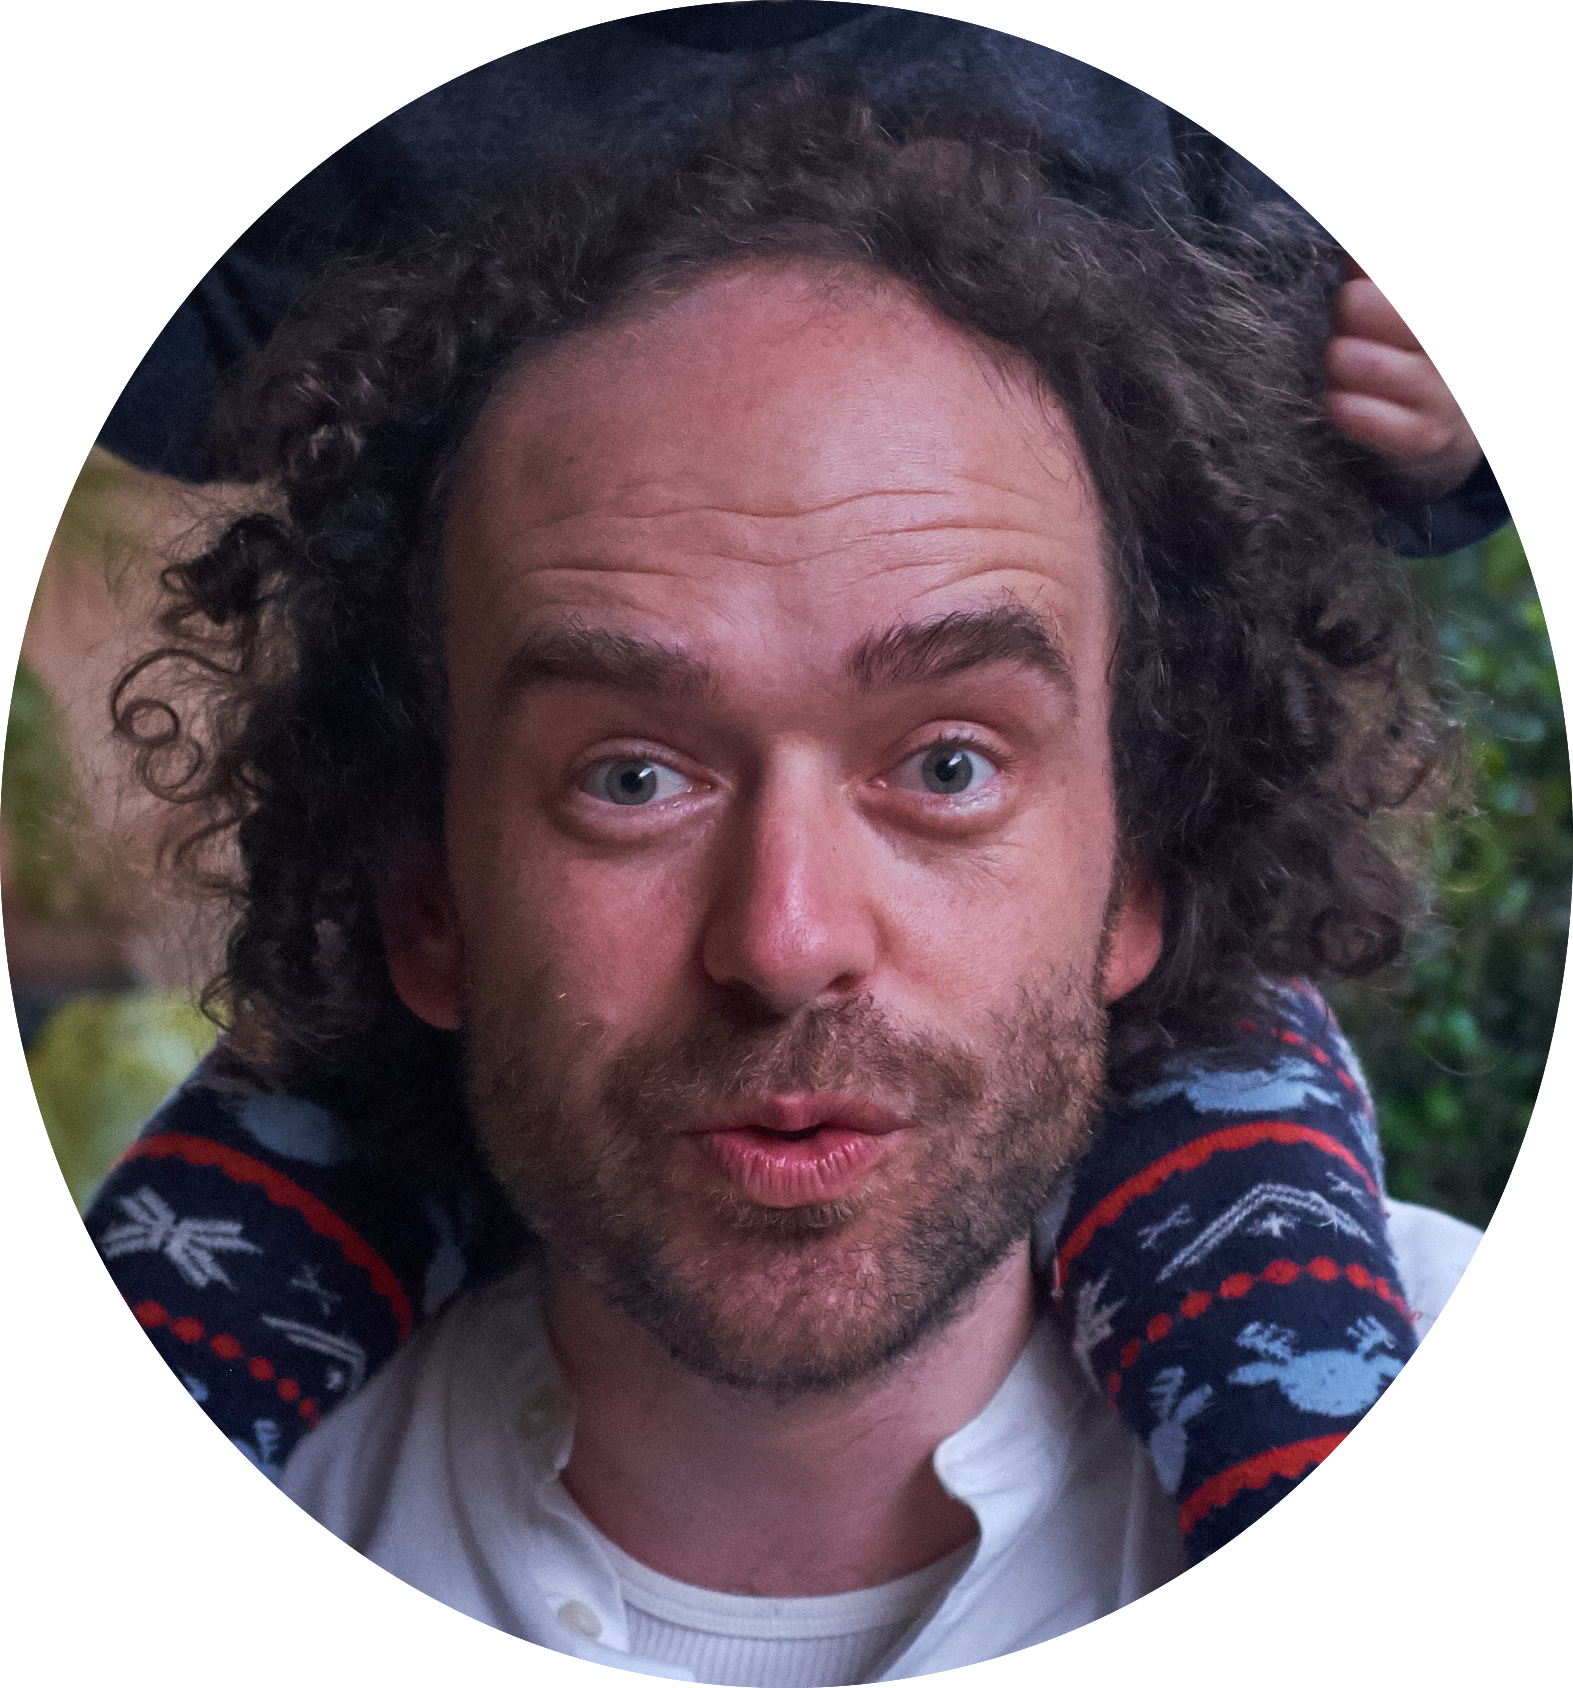
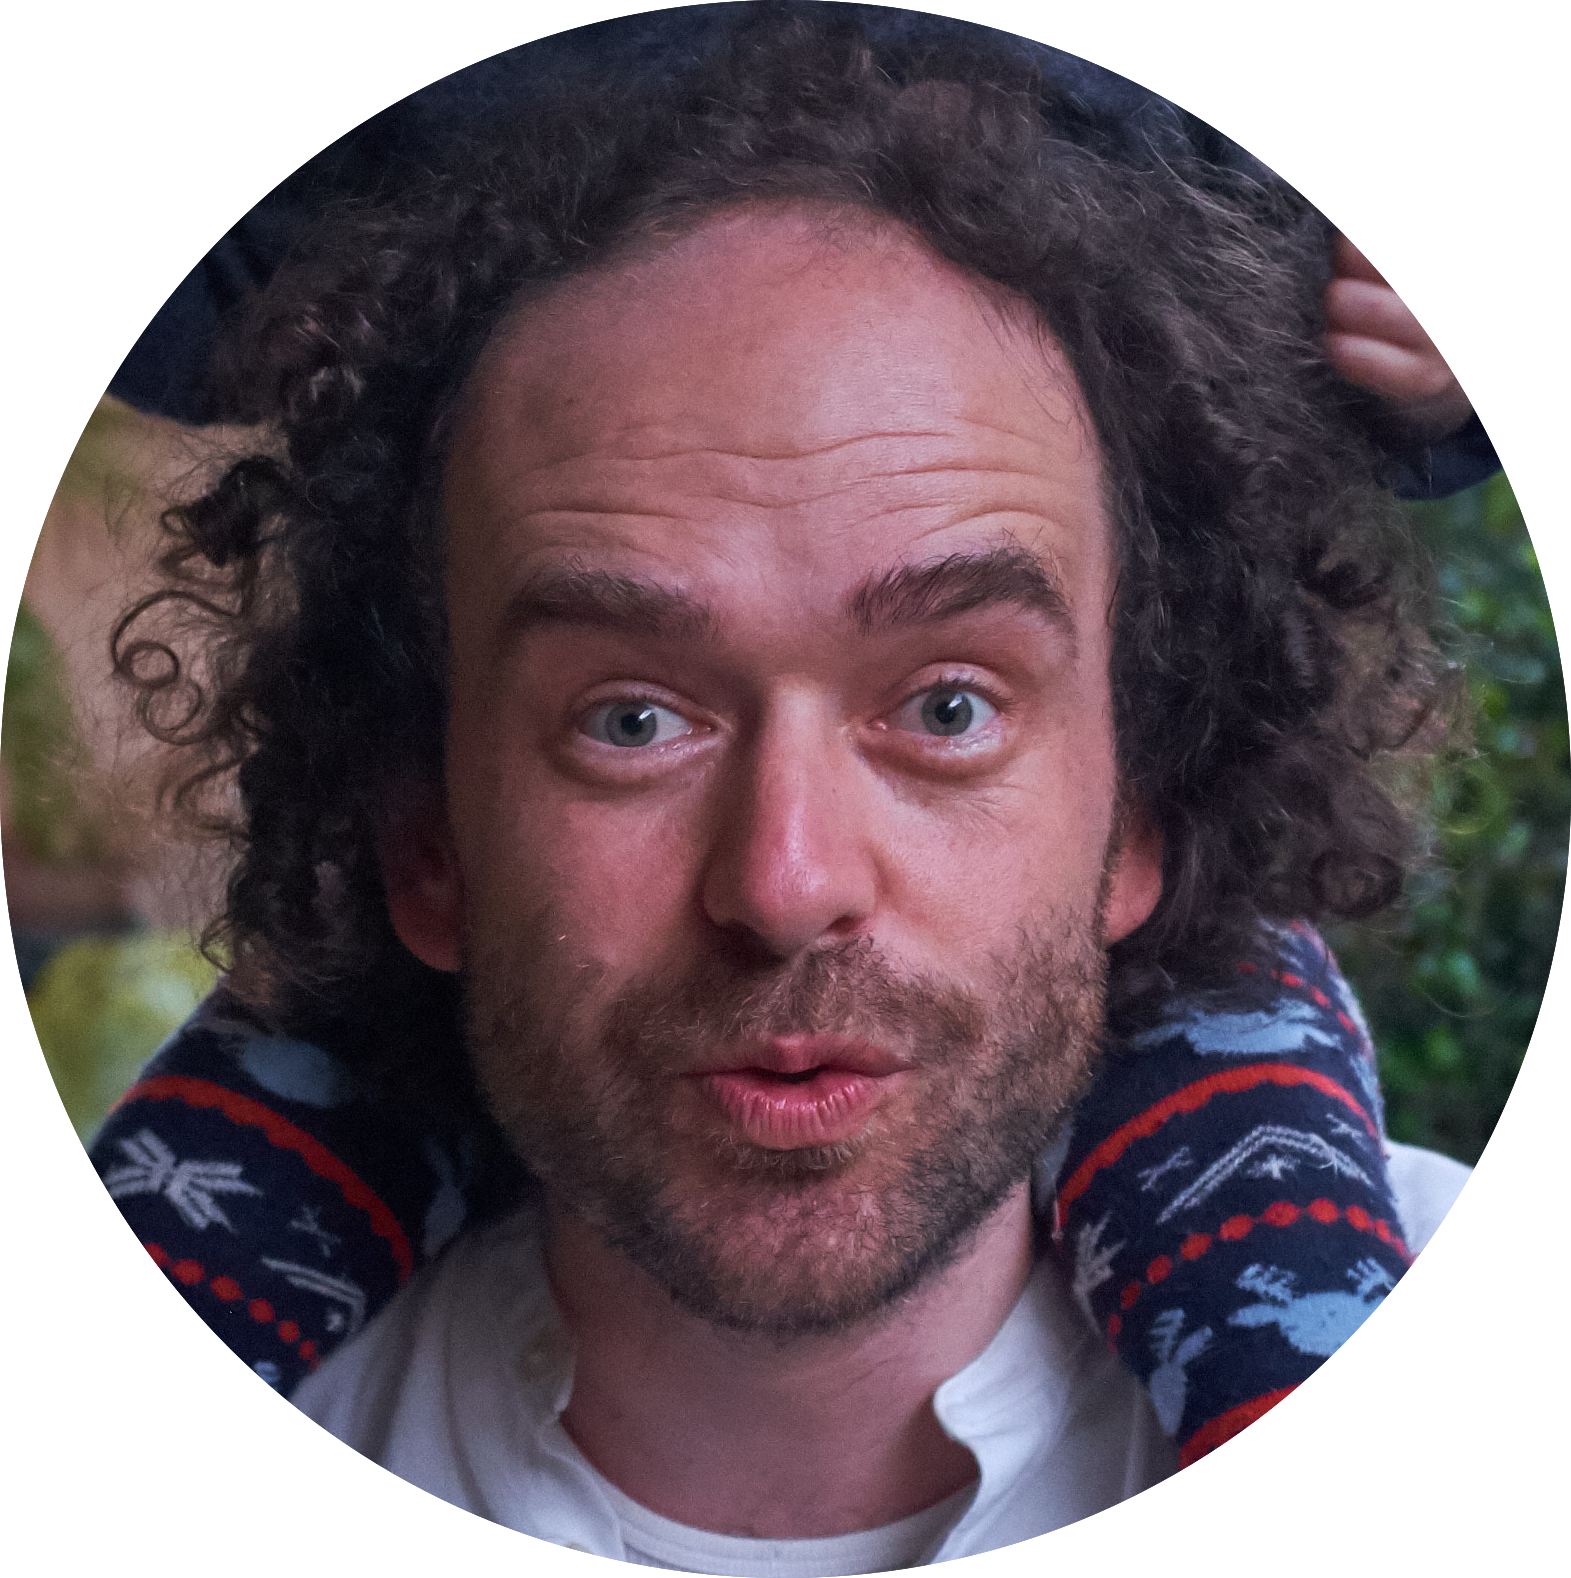
added portraits to summary slide

diff --git a/2022-eröffnung/index.html b/2022-eröffnung/index.html
@@ -1281,6 +1281,64 @@ Universitätsbibliothek, Grimm-Zentrum            </p>
         (Inst.f. Bibliotheks- und Informationswissenschaften) der
         Humboldt-Universität zu Berlin einen <strong>prototypischen
         <em>Scholarly Makerspace</em></strong> auf (2022–25).</p>
+        <div class="columns-3">
+        <div class="column">
+        <figure>
+        <img data-src="../assets/images/photos/portrait_se-circle.png"
+        alt="Sophie Eckenstaler" />
+        <figcaption aria-hidden="true">Sophie Eckenstaler</figcaption>
+        </figure>
+        </div>
+        <div class="column">
+        <figure>
+        <img data-src="../assets/images/photos/portrait_tg-circle.png"
+        alt="Till Grallert, PhD" />
+        <figcaption aria-hidden="true">Till Grallert, PhD</figcaption>
+        </figure>
+        </div>
+        <div class="column">
+        <figure>
+        <img data-src="../assets/images/photos/portrait_st-circle.png"
+        alt="Samantha Tirtohusodo" />
+        <figcaption aria-hidden="true">Samantha Tirtohusodo</figcaption>
+        </figure>
+        </div>
+        </div>
+        <aside class="notes">
+        <ul>
+        <li>Sophie
+        <ul>
+        <li>Museologie, Medieninformatik sowie Digital History (MA)</li>
+        <li>Doktorandin und Wimi am Lehrstuhl Digital History</li>
+        <li>Schwerpunkt auf Research Software Engineering</li>
+        </ul></li>
+        <li>Till
+        <ul>
+        <li>Geschichte (PhD, MA)</li>
+        <li>Islamwissenschaft, Judaistik und VWL</li>
+        <li>mehr als 10 Jahre Erfahrungen in den DH
+        <ul>
+        <li>Global DH, critical DH: unter den Bedingungen des Globalen
+        Südens</li>
+        <li>multilingual DH: vor allem Arabisch und Osmanisch</li>
+        <li>Digitale Editorik, NER</li>
+        <li>Netzwerkanalyse, Stilometrie</li>
+        <li>Data viz</li>
+        </ul></li>
+        </ul></li>
+        <li>Sam
+        <ul>
+        <li>Bibliotheks- und Informationsmanagement</li>
+        <li>Information Science</li>
+        <li>Außerdem am FID Buch-, Bibliothek-, und
+        Informationswissenschaft angestellt</li>
+        <li>Schwerpunkt
+        <ul>
+        <li>User Experience</li>
+        </ul></li>
+        </ul></li>
+        </ul>
+        </aside>
         </section>
         <section id="heutige-vorstellung" class="slide level2">
         <h2>Heutige Vorstellung</h2>

diff --git a/2022-eröffnung/makerspace_what-is-it.md b/2022-eröffnung/makerspace_what-is-it.md
@@ -26,6 +26,48 @@ tags:
 
 Wir bauen im Rahmen des DFG-Projekts "Future e-Research Support in the Humanities" zur Förderung von *digitaler* und *computationaler* **Werkzeugkompetenz** (*tool literacy*) in den Geistes- und Kulturwissenschaften an Universitätsbibliothek unter Beteiligung der Lehrstühle für *Digital History* (Inst. f. Geschichte) und *Information Processing and Analytics* (Inst.f. Bibliotheks- und Informationswissenschaften) der Humboldt-Universität zu Berlin einen **prototypischen *Scholarly Makerspace*** auf (2022--25).
 
+::: columns-3
+:::: column
+
+![Sophie Eckenstaler](../assets/images/photos/portrait_se-circle.png)
+
+::::
+:::: column
+
+![Till Grallert, PhD](../assets/images/photos/portrait_tg-circle.png)
+
+::::
+:::: column
+
+![Samantha Tirtohusodo](../assets/images/photos/portrait_st-circle.png)
+
+::::
+:::
+
+::: notes
+
+- Sophie
+    + Museologie, Medieninformatik sowie Digital History (MA)
+    + Doktorandin und Wimi am Lehrstuhl Digital History
+    + Schwerpunkt auf Research Software Engineering
+- Till
+    + Geschichte (PhD, MA)
+    + Islamwissenschaft, Judaistik und VWL
+    + mehr als 10 Jahre Erfahrungen in den DH
+        * Global DH, critical DH: unter den Bedingungen des Globalen Südens
+        * multilingual DH: vor allem Arabisch und Osmanisch
+        * Digitale Editorik, NER
+        * Netzwerkanalyse, Stilometrie
+        * Data viz
+- Sam
+    + Bibliotheks- und Informationsmanagement
+    + Information Science
+    + Außerdem am FID Buch-, Bibliothek-, und Informationswissenschaft angestellt
+    + Schwerpunkt
+        * User Experience
+
+:::
+
 ## Heutige Vorstellung
 
 1. Was ist denn ein "prototypischer" *Scholarly Makerspace*
